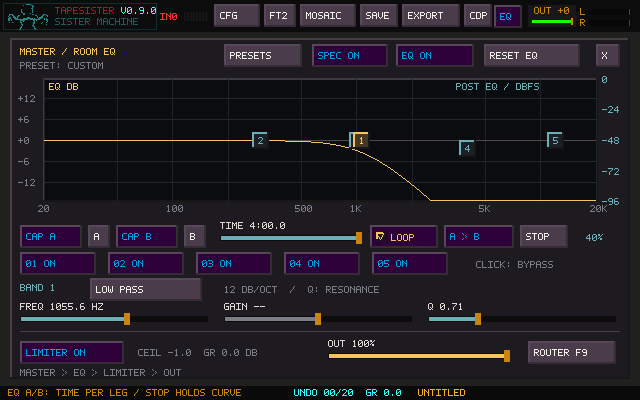
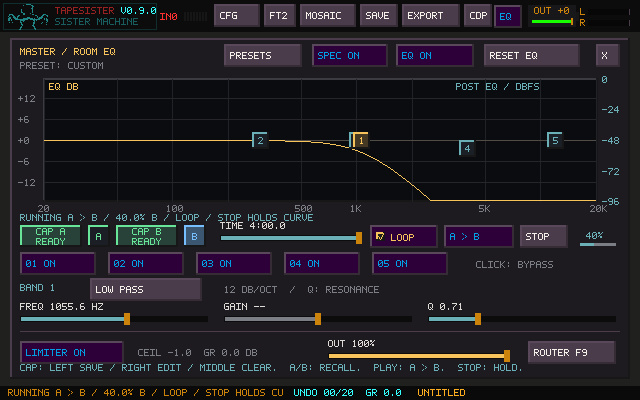
Make EQ captures show Prism-style edit, empty and playback states

diff --git a/src/ts_master_eq.c b/src/ts_master_eq.c
@@ -157,8 +157,19 @@ static void eq_apply(TsMasterEq *eq,const TsMasterEqControls *controls,int morph
 void ts_master_eq_set(TsMasterEq *eq,const TsMasterEqControls *controls)
 {
     TsMasterEqControls c=*controls;ts_master_eq_sanitize(&c);
+    if(!ts_master_eq_matches(&c,&eq->live))eq->morph_editing=1;
     eq->controls=c;eq->morph_running=0;eq->morph_tick=0;
     eq_apply(eq,&c,0);
+}
+int ts_master_eq_matches(const TsMasterEqControls *a,const TsMasterEqControls *b)
+{
+    if(a->enabled!=b->enabled)return 0;
+    for(int i=0;i<TS_MASTER_EQ_BANDS;++i) {
+        const TsEqBand *x=&a->band[i],*y=&b->band[i];
+        if(x->enabled!=y->enabled || x->type!=y->type || x->frequency!=y->frequency ||
+           x->gain_db!=y->gain_db || x->q!=y->q)return 0;
+    }
+    return 1;
 }
 void ts_eq_morph_default(TsEqMorph *m)
 {
@@ -177,25 +188,40 @@ void ts_master_eq_morph_set(TsMasterEq *eq,const TsEqMorph *m)
 {
     ts_master_eq_morph_stop(eq);eq->morph=*m;ts_eq_morph_sanitize(&eq->morph);
     eq->morph_position=0;eq->morph_reverse=0;
+    eq->morph_selected=eq->morph_editing=0;
+    for(int i=0;i<2;++i)if((eq->morph.captured&(1u<<i)) && ts_master_eq_matches(&eq->live,&eq->morph.state[i])) {
+        eq->morph_selected=i+1;eq->morph_position=i;break;
+    }
 }
 void ts_master_eq_morph_capture(TsMasterEq *eq,int state)
 {
     if(state<0 || state>1)return;
     ts_master_eq_morph_stop(eq);eq->morph.state[state]=eq->live;
     eq->morph.state[state].solo_band=0;eq->morph.captured|=1u<<state;
+    eq->morph_selected=state+1;eq->morph_editing=0;eq->morph_position=state;eq->morph_reverse=0;
+}
+void ts_master_eq_morph_clear(TsMasterEq *eq,int state)
+{
+    if(state<0 || state>1)return;
+    ts_master_eq_morph_stop(eq);
+    eq->morph.captured&=~(1u<<state);ts_master_eq_default(&eq->morph.state[state]);
+    eq->morph_selected=state+1;eq->morph_editing=1;
 }
 int ts_master_eq_morph_recall(TsMasterEq *eq,int state)
 {
-    if(state<0 || state>1 || !(eq->morph.captured&(1u<<state)))return 0;
+    if(state<0 || state>1)return 0;
+    ts_master_eq_morph_stop(eq);eq->morph_selected=state+1;eq->morph_editing=1;
+    if(!(eq->morph.captured&(1u<<state)))return 0;
     ts_master_eq_set(eq,&eq->morph.state[state]);eq->morph_position=state;eq->morph_reverse=0;return 1;
 }
 int ts_master_eq_morph_start(TsMasterEq *eq)
 {
-    if(eq->morph.captured!=3u)return 0;
+    if(eq->morph.captured!=3u || !eq->sample_rate)return 0;
+    if(eq->morph_running)return 1; /* Repeated clicks must not pin the clock to A. */
     ts_eq_morph_sanitize(&eq->morph);
     ts_master_eq_morph_recall(eq,0);eq->morph_duration=eq->morph.seconds;
     eq->morph_frames=0;eq->morph_total_frames=(uint64_t)llround(eq->sample_rate*eq->morph_duration);
-    eq->morph_running=1;return 1;
+    eq->morph_selected=eq->morph_editing=0;eq->morph_running=1;return 1;
 }
 static void eq_morph_tick(TsMasterEq *eq)
 {
@@ -226,7 +252,7 @@ static void eq_morph_tick(TsMasterEq *eq)
             eq->morph_reverse=!eq->morph_reverse;eq->morph_duration=eq->morph.seconds;
             eq->morph_frames=0;eq->morph_total_frames=(uint64_t)llround(eq->sample_rate*eq->morph_duration);
         }
-        else eq->morph_running=0;
+        else {eq->morph_running=0;eq->morph_selected=eq->morph_reverse?1:2;eq->morph_editing=0;}
     }
 }
 static double filter(TsEqFilter *f,double in,int ch)

diff --git a/tests/test_master_eq_morph.c b/tests/test_master_eq_morph.c
@@ -95,6 +95,38 @@ static void continuous_sweep(void)
         assert(!e.morph_running && !memcmp(&e.live,&e.morph.state[1],sizeof(e.live)));
     }
 }
+static void capture_workflow(void)
+{
+    TsMasterEq e;setup(&e,48000,1);
+    assert(e.morph_selected==2 && !e.morph_editing);
+    assert(ts_master_eq_morph_recall(&e,0) && e.morph_selected==1 && e.morph_editing);
+    TsMasterEqControls a=e.live,b=e.morph.state[1],edited=a;
+    edited.band[2].gain_db=3;ts_master_eq_set(&e,&edited);
+    assert(!ts_master_eq_matches(&e.live,&e.morph.state[0]));
+    assert(ts_master_eq_matches(&a,&e.morph.state[0]));
+    ts_master_eq_morph_capture(&e,0);assert(!e.morph_editing && e.morph_selected==1);
+    assert(ts_master_eq_matches(&edited,&e.morph.state[0]));
+    edited.solo_band=4;assert(ts_master_eq_matches(&edited,&e.morph.state[0]));
+    assert(ts_master_eq_morph_start(&e));frames(&e,12000);
+    assert(!e.morph_selected && !e.morph_editing);
+    uint64_t elapsed=e.morph_frames;
+    assert(ts_master_eq_morph_start(&e) && e.morph_frames==elapsed);
+    TsMasterEqControls held=e.live;
+    ts_master_eq_morph_clear(&e,0);
+    assert(!e.morph_running && e.morph_selected==1 && e.morph_editing && e.morph.captured==2);
+    assert(ts_master_eq_matches(&held,&e.live) && ts_master_eq_matches(&b,&e.morph.state[1]));
+    assert(!ts_master_eq_morph_start(&e));
+    assert(!ts_master_eq_morph_recall(&e,0) && ts_master_eq_matches(&held,&e.live));
+    ts_master_eq_morph_capture(&e,0);assert(ts_master_eq_morph_start(&e));frames(&e,48000);
+    assert(!e.morph_running && e.morph_selected==2 && !e.morph_editing);
+    TsEqMorph saved=e.morph;ts_master_eq_morph_set(&e,&saved);
+    assert(e.morph_selected==2 && !e.morph_editing);
+    ts_master_eq_morph_clear(&e,1);assert(e.morph.captured==1);
+    ts_master_eq_morph_clear(&e,0);assert(!e.morph.captured);
+    TsMasterEq unprepared;ts_master_eq_init(&unprepared);
+    ts_master_eq_morph_capture(&unprepared,0);ts_master_eq_morph_capture(&unprepared,1);
+    assert(!ts_master_eq_morph_start(&unprepared));
+}
 static void persistence(void)
 {
     static TsConfig c,restored;ts_config_init(&c);
@@ -131,4 +163,4 @@ static void persistence(void)
     assert(ts_eq_morph_read(&e.morph,"EqMorph.Captured","4")<0);
     assert(ts_eq_morph_read(&e.morph,"EqMorph.A.Band.1","1,0,nan,0,1")<0);
 }
-int main(void){timeline();continuous_sweep();persistence();puts("EQ A/B morph tests passed");return 0;}
+int main(void){timeline();continuous_sweep();capture_workflow();persistence();puts("EQ A/B morph tests passed");return 0;}

diff --git a/include/tapesister/master_eq.h b/include/tapesister/master_eq.h
@@ -27,6 +27,8 @@ typedef struct {
     TsMasterEqControls live;
     TsEqMorph morph;
     int morph_running, morph_reverse;
+    /* Transient selection: 0 = live blend, 1 = A, 2 = B. Never serialized. */
+    int morph_selected, morph_editing;
     double morph_position, morph_duration;
     uint64_t morph_frames, morph_total_frames;
     unsigned morph_tick;
@@ -44,6 +46,8 @@ int ts_master_eq_preset(TsMasterEqControls *c, int preset);
 /* Matches band settings, independently of global bypass or temporary solo. */
 int ts_master_eq_preset_match(const TsMasterEqControls *c);
 void ts_master_eq_sanitize(TsMasterEqControls *c);
+/* Capture comparison excludes temporary band solo and structure padding. */
+int ts_master_eq_matches(const TsMasterEqControls *a, const TsMasterEqControls *b);
 int ts_master_eq_band_active(const TsMasterEqControls *c, int band);
 void ts_master_eq_toggle_band(TsMasterEqControls *c, int band);
 void ts_master_eq_init(TsMasterEq *eq);
@@ -54,6 +58,7 @@ void ts_eq_morph_default(TsEqMorph *m);
 void ts_eq_morph_sanitize(TsEqMorph *m);
 void ts_master_eq_morph_set(TsMasterEq *eq, const TsEqMorph *m);
 void ts_master_eq_morph_capture(TsMasterEq *eq, int state);
+void ts_master_eq_morph_clear(TsMasterEq *eq, int state);
 int ts_master_eq_morph_recall(TsMasterEq *eq, int state);
 int ts_master_eq_morph_start(TsMasterEq *eq);
 void ts_master_eq_morph_stop(TsMasterEq *eq);

diff --git a/include/tapesister/ui.h b/include/tapesister/ui.h
@@ -511,6 +511,7 @@ typedef struct {
     unsigned master_eq_rate;
     int master_eq_presets_open, master_eq_spectrum_off;
     int eq_morph_running, eq_morph_reverse;
+    int eq_morph_selected, eq_morph_editing;
     double eq_morph_position;
     double eq_morph_drag_max;
     uint32_t master_eq_spectrum_tick;
@@ -882,6 +883,10 @@ int ts_ui_keyboard_cycle_octave(TsUiState *ui, int amount);
 int ts_ui_keyboard_shift_semitone(TsUiState *ui, int amount);
 int ts_ui_master_eq_node(const TsUiState *ui,int x,int y);
 int ts_ui_master_eq_visible(const TsUiState *ui);
+typedef enum { TS_EQ_CAPTURE_EMPTY, TS_EQ_CAPTURE_READY, TS_EQ_CAPTURE_EDITING, TS_EQ_CAPTURE_CHANGED } TsEqCaptureVisual;
+TsEqCaptureVisual ts_ui_eq_capture_visual(const TsUiState *ui,int state);
+void ts_ui_eq_morph_status(const TsUiState *ui,char *text,size_t size);
+void ts_ui_eq_morph_help(const TsUiState *ui,int x,int y,char *text,size_t size);
 int ts_ui_master_eq_preset_at(int x,int y);
 int ts_ui_master_eq_control(int x,int y);
 int ts_ui_master_eq_midi_target(const TsUiState *ui,int x,int y,char *target,size_t size);

diff --git a/src/main_sdl.c b/src/main_sdl.c
@@ -18102,6 +18102,7 @@ int main(int argc, char **argv)
         Uint32 schedule_now = SDL_GetTicks();
         int editing = (Uint32)(schedule_now-last_input_ms)<250u || SDL_GetMouseState(NULL,NULL)!=0u;
         int animated = ui.playback_active || ui.tracker_running || ui.sister_enabled ||
+            (ts_ui_master_eq_visible(&ui) && ui.eq_morph_running) ||
             ui.sister_capture_active || ui.file_busy || ui.midi_activity_until_ms ||
             (ui.mosaic && ui.mosaic->playing) || ui.capture_state==TS_CAPTURE_RECORDING ||
             audio.live_link_available>0 || ts_input_monitor_enabled(audio.input_monitor);

diff --git a/docs/EQ_AB_MORPH.md b/docs/EQ_AB_MORPH.md
@@ -10,8 +10,27 @@ rendered curves.
 3. Set **TIME**, then click **PLAY**. The EQ recalls A and moves to B.
 
 Click the small **A** or **B** button to recall a captured curve for editing.
-Capture buttons light when their state is stored; capturing again replaces that
-state. Both captures are required before Play works. Captures include every
+The selected A/B button is highlighted. Capture buttons use Prism's state colors:
+
+| Capture label | Color | Meaning |
+| --- | --- | --- |
+| EMPTY | Gray | No stored capture; select it and edit the live curve before saving. |
+| READY | Green | A saved capture is available. |
+| EDIT | Blue | Its saved curve is recalled for editing. |
+| CHANGED | Amber | The selected curve has edits that have not been captured. |
+
+**Left-click CAP** saves all five bands, **right-click CAP** recalls for editing,
+and **middle-click CAP** clears only that capture. Clearing stops the timer and
+holds the live curve; the other capture stays saved. Empty recall also keeps the
+live curve. The small A/B buttons are recall shortcuts. During playback, the
+highlighted outline indicates the destination; a solid highlight indicates the
+selected editable state when stopped. Capture is protected during playback:
+Stop first, or right-click CAP to recall an endpoint for editing.
+
+Both captures are required before Play works; otherwise the button says **WAIT**.
+Hover help explains each control in two lines below the output controls. The
+status above the buttons always shows the selected edit state or running
+phase/direction, including identical captures and EQ bypass. Captures include every
 band's frequency, gain, Q, type and bypass, plus the overall EQ bypass. Temporary
 band solo, limiter, output gain and routing are excluded.
 
@@ -20,7 +39,11 @@ band solo, limiter, output gain and routing are excluded.
   a 4:00 setting gives an eight-minute round trip.
 - **Stop:** hold the current curve. Editing a band, choosing a preset, resetting
   EQ, toggling bypass/solo or using an EQ MIDI control also takes over manually.
-- **Play:** restart at A. **A/B recall** uses the usual short EQ smoothing.
+- **Play:** start at A when stopped. Clicking while already running keeps the
+  transition moving. Stop, then Play to restart. **A/B recall** uses the usual
+  short EQ smoothing.
+- **Reset EQ:** resets the live curve and bypass only. Saved captures stay stored;
+  use middle-click CAP to clear each one explicitly.
 - Closing or minimizing the EQ view does not stop the sweep. Its clock follows
   processed audio frames, independently of song tempo and source transport.
   Pausing the audio device pauses its clock.
@@ -74,13 +97,17 @@ four-minute low-pass sweep checks for unwanted periodic level dips.
 The native SDL controller fixture exercises capture/recall, the extended time
 range, two-times window scaling, MIDI/manual takeover, hidden-panel playback,
 stable dirty-state hashing, and exactly one EQ clock tick per matrix frame.
-Existing tile EQ, routing, keyboard, recording and spectrum tests remain in the
-release gate. Windows and Linux each passed 63 regression tests plus packaging
-on the initial implementation (`122c8a4`). The final UI polish keeps the selected
-band visible as nodes cross and shortens the footer hint.
+It also checks Prism-style empty/ready/edit/changed feedback, empty recall,
+clear while running, saved-pair preservation, contextual hover help, repeated
+Play without restarting, and selection at the completed endpoint. Existing tile
+EQ, routing, keyboard, recording and spectrum tests remain in the release gate. Windows and Linux each passed 63 regression tests plus packaging
+on the initial implementation (`122c8a4`). The state-feedback update keeps selection and hover help visible and schedules
+EQ motion at the animated refresh rate, even without other transports running.
 
 Physical-device listening and low-power laptop performance are not established
 by these tests. The image below is the native framebuffer, rendered from the DSP
 state at 40% through a four-minute sweep.
 
 ![Native whole-EQ A/B controls](screenshots/eq-ab-morph.png)
+
+![Changed capture, selected state and contextual help](screenshots/eq-ab-morph-edit.png)
